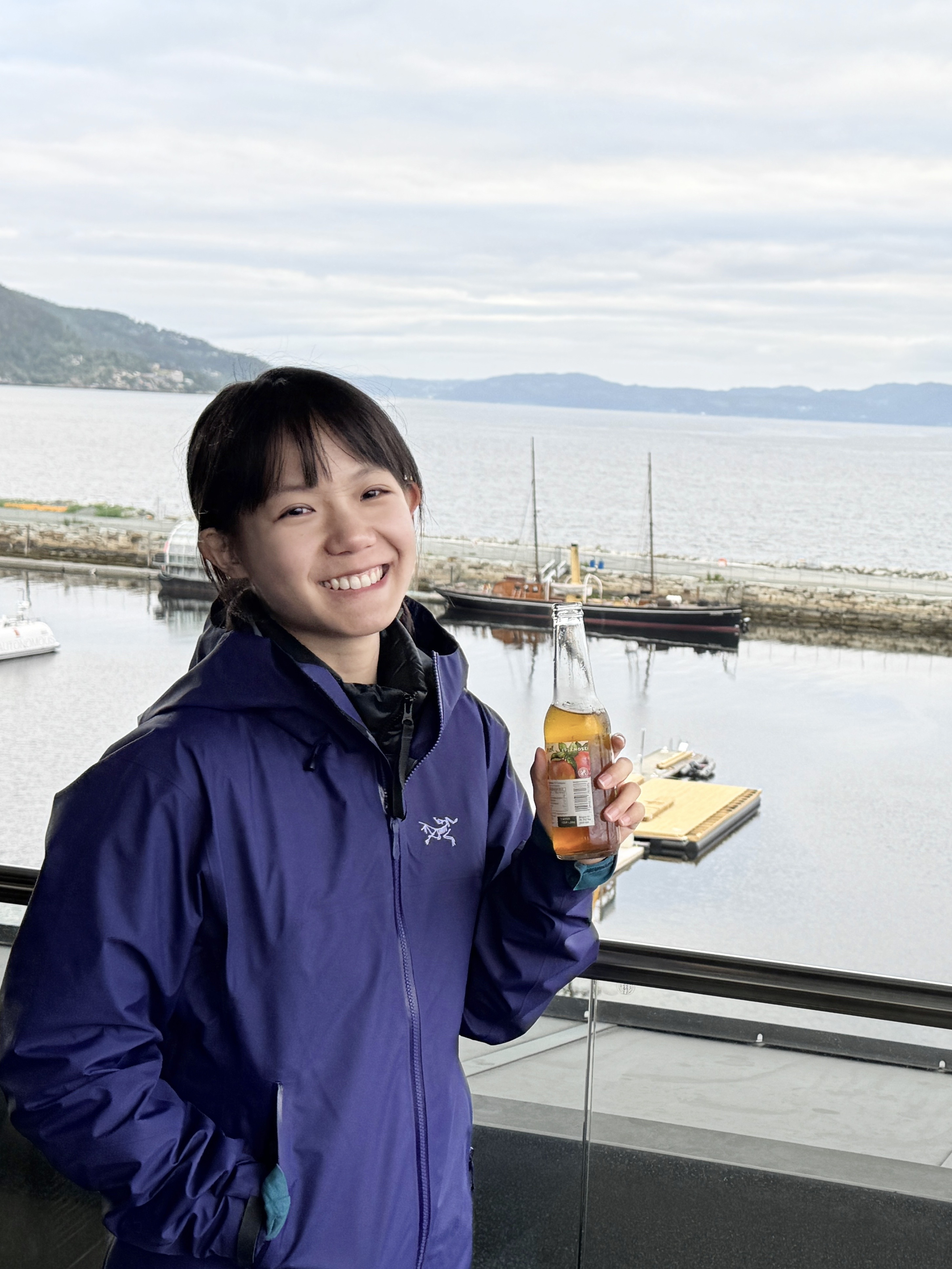
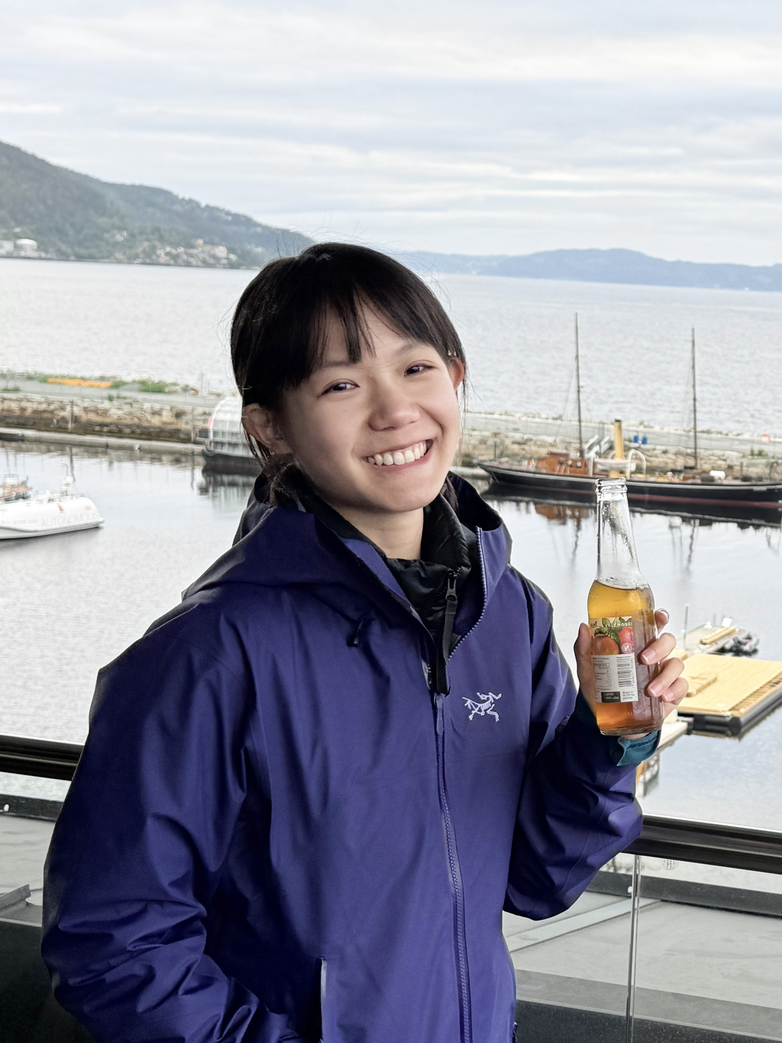
add my personal info

diff --git a/_pages/about.md b/_pages/about.md
@@ -1,13 +1,13 @@
 ---
 permalink: /
-title: "Academic Pages is a ready-to-fork GitHub Pages template for academic personal websites"
+title: "Yingjie (Jessie) Fu's Homepage"
 author_profile: true
 redirect_from: 
   - /about/
   - /about.html
 ---
 
-This is the front page of a website that is powered by the [Academic Pages template](https://github.com/academicpages/academicpages.github.io) and hosted on GitHub pages. [GitHub pages](https://pages.github.com) is a free service in which websites are built and hosted from code and data stored in a GitHub repository, automatically updating when a new commit is made to the repository. This template was forked from the [Minimal Mistakes Jekyll Theme](https://mmistakes.github.io/minimal-mistakes/) created by Michael Rose, and then extended to support the kinds of content that academics have: publications, talks, teaching, a portfolio, blog posts, and a dynamically-generated CV. Incidentally, these same features make it a great template for anyone that needs to show off a professional template!
+<!-- This is the front page of a website that is powered by the [Academic Pages template](https://github.com/academicpages/academicpages.github.io) and hosted on GitHub pages. [GitHub pages](https://pages.github.com) is a free service in which websites are built and hosted from code and data stored in a GitHub repository, automatically updating when a new commit is made to the repository. This template was forked from the [Minimal Mistakes Jekyll Theme](https://mmistakes.github.io/minimal-mistakes/) created by Michael Rose, and then extended to support the kinds of content that academics have: publications, talks, teaching, a portfolio, blog posts, and a dynamically-generated CV. Incidentally, these same features make it a great template for anyone that needs to show off a professional template!
 
  You can fork [this template](https://github.com/academicpages/academicpages.github.io) right now, modify the configuration and Markdown files, add your own PDFs and other content, and have your own site for free, with no ads!
 
@@ -53,4 +53,4 @@ Example: editing a Markdown file for a talk
 
 For more info
 ------
-More info about configuring Academic Pages can be found in [the guide](https://academicpages.github.io/markdown/), the [growing wiki](https://github.com/academicpages/academicpages.github.io/wiki), and you can always [ask a question on GitHub](https://github.com/academicpages/academicpages.github.io/discussions). The [guides for the Minimal Mistakes theme](https://mmistakes.github.io/minimal-mistakes/docs/configuration/) (which this theme was forked from) might also be helpful.
+More info about configuring Academic Pages can be found in [the guide](https://academicpages.github.io/markdown/), the [growing wiki](https://github.com/academicpages/academicpages.github.io/wiki), and you can always [ask a question on GitHub](https://github.com/academicpages/academicpages.github.io/discussions). The [guides for the Minimal Mistakes theme](https://mmistakes.github.io/minimal-mistakes/docs/configuration/) (which this theme was forked from) might also be helpful. -->
